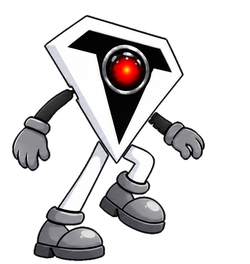
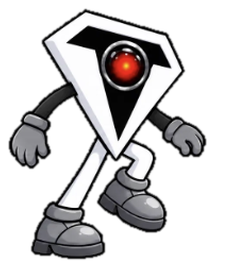
DMNT 9000: neuer Laufzyklus mit 4 Posen (von Stefan), Massstab ueber Kopfbreite, Bildherkunft geklaert
Claude-Session: https://claude.ai/code/session_01WAYk2D3oB2eZHrMfHXK8Zn

Changed region(s): [[0.028, 0.0303, 0.84, 1.0], [0.42, 0.4242, 0.448, 0.4545]]

diff --git a/werkzeuge/avatar_bauen.py b/werkzeuge/avatar_bauen.py
@@ -283,6 +283,13 @@ def bauen(quelle: Path) -> Path:
         for p in liste:
             _, _, r = auge_finden(p)
             skaliert[name].append(skalieren(p, faktor_pro_augenpixel / r))
+    # Quellen mit "massstab": "kopf" – Kopfbreite wie die Referenzpose (robuster,
+    # wenn die Augengroesse zwischen den Bildern schwankt)
+    ref_kopf = kopf_finden(skaliert[ref_name][ref_i])[2]
+    for name, q in plan["quellen"].items():
+        if q.get("massstab") == "kopf" and name not in ohne_auge:
+            skaliert[name] = [skalieren(p, ref_kopf * q.get("faktor", 1.0) / kopf_finden(p)[2])
+                              for p in posen[name]]
     # Posen ohne Auge: Kopfbreite relativ zu einer Pose mit Auge
     for name in ohne_auge:
         q = plan["quellen"][name]
